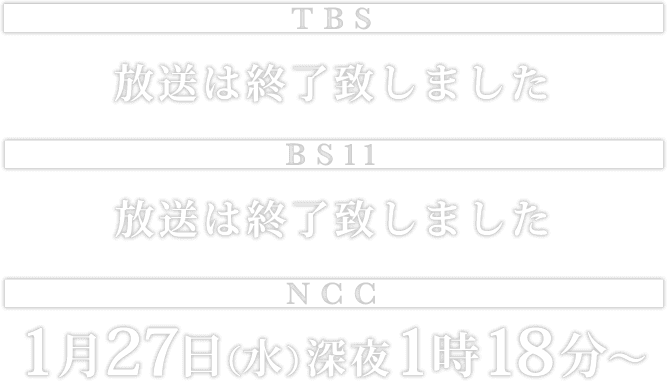
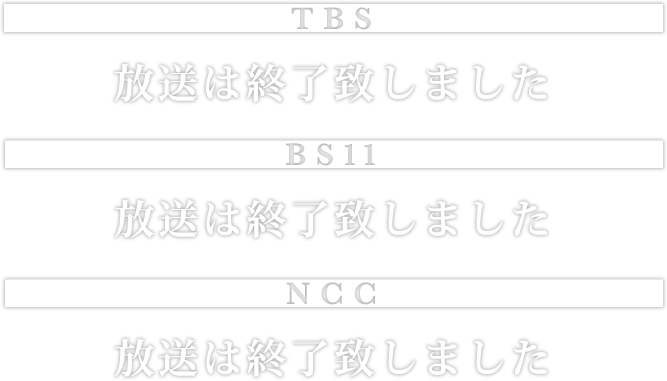
GitHub Actions at 2021-10-30 00:26:14

Changed region(s): [[0.03, 0.8373, 0.9895, 1.0], [0.4198, 0.7795, 0.5697, 0.8084], [0.03, 0.8661, 0.06, 0.895]]

diff --git a/index.html b/index.html
@@ -113,7 +113,7 @@
 		
 		<!-- #section-sidebar-top -->
 		<section id="sidebar-top">
-			<h2 class="top-onair-pc"><img src="img/top_onair_pc_2.png" srcset="img/top_onair_pc_2@2x.png" alt="放送情報"></h2>
+			<h2 class="top-onair-pc"><img src="img/top_onair_pc_3.png" srcset="img/top_onair_pc_3@2x.png" alt="放送情報"></h2>
 			<div class="top-pvbanner-pc link"><a data-type="md-youtube" href="http://www.youtube.com/watch?v=BjMQxHYfxC8" data-bg="#b486db"><img src="img/pv_banner.png" srcset="img/pv_banner@2x.png" alt="PV"></a></div>
 			<ul class="top-navigation-pc">
 				<li class="pc-nav-01 link alttext"><a href="news/index.html">NEWS</a></li>
@@ -161,7 +161,9 @@
 				<div id="top-img"><img class="lazyload" src="img/load.png" data-src="img/top_img_lazy_2.png" alt="安達としまむら"></div>
 				<div id="top-img-sp"><img class="lazyload" src="img/load.png" data-src="img/top_img_lazy_sp_2.png" alt="安達としまむら"></div>
 				<h1 class="top-logo"><img src="img/logo_too_pc.png" srcset="img/logo_too_pc@2x.png" alt="安達としまむら"></h1>
+				<!--
 				<div class="top-banner-event link"><a href="news/news20201009_01.html"><img src="img/banner_event.png" srcset="img/banner_event@2x.png" alt="ポスタープレゼントバナー"></a></div>
+				-->
 				<!--
 				<div class="top-banner-event link"><a href="news/news20210210_01.html"><img src="img/banner_event_02.png" alt="イベント情報"></a></div>
 				-->
@@ -192,23 +194,18 @@
 					<h2 class="h2-top-update"><img src="img/h2_top_update.png" alt="UPDATE"></h2>
 					<div class="update-block shadow">
 						<dl class="update-box clearfix">
-							<dt class="update-date">2021.03.12</dt>
-							<dt class="update-new">NEW</dt>
-                            <dd class="update-text"><a href="special/special07.html">イベントレポート更新！</a></dd>
-						</dl>
-                        <dl class="update-box clearfix">
 							<dt class="update-date">2021.02.16</dt>
-							<dt class="update-new">NEW</dt>
-                            <dd class="update-text"><a href="news/news20210216_01.html">『「安達としまむら」SPECIAL EVENT　〜私に相応しいチョコを決めてください！』グッズ再販売実施決定！</a></dd>
+							<!--<dt class="update-new">NEW</dt>-->
+                            <dd class="update-text"><a href="news/news20210216_01.html">『「安達としまむら」SPECIAL EVENT　～私に相応しいチョコを決めてください！』グッズ再販売実施決定！
 						</dl>
 						<dl class="update-box clearfix">
 							<dt class="update-date">2021.02.10</dt>
-                            <dd class="update-text"><a href="news/news20210210_02.html">【重要】『「安達としまむら」SPECIAL EVENT　〜私に相応しいチョコを決めてください！inさくらホール〜』中止のお知らせ 及び 有料配信イベント開催のお知らせ</a></dd>
-							<dd class="update-text"><a href="news/news20210210_01.html">2月21日（日）『「安達としまむら」SPECIAL ONLINE EVENT　〜私に相応しいチョコを決めてください！〜』開催決定！</a></dd>
+                            <dd class="update-text"><a href="news/news20210210_02.html">【重要】『「安達としまむら」SPECIAL EVENT　～私に相応しいチョコを決めてください！inさくらホール～』中止のお知らせ 及び 有料配信イベント開催のお知らせ</a></dd>
+							<dd class="update-text"><a href="news/news20210210_01.html">2月21日（日）『「安達としまむら」SPECIAL ONLINE EVENT　～私に相応しいチョコを決めてください！～』開催決定！</a></dd>
 						</dl>
 						<dl class="update-box clearfix">
 							<dt class="update-date">2021.01.29</dt>
-                            <dd class="update-text"><a href="news/news20210129_01.html">『「安達としまむら」SPECIAL EVENT　〜私に相応しいチョコを決めてください！inさくらホール〜』グッズ通販決定！</a></dd>
+                            <dd class="update-text"><a href="news/news20210129_01.html">『「安達としまむら」SPECIAL EVENT　～私に相応しいチョコを決めてください！inさくらホール～』グッズ通販決定！</a></dd>
 						</dl>
 						<dl class="update-box clearfix">
 							<dt class="update-date">2021.01.28</dt>
@@ -327,33 +324,28 @@
 		
 		<!-- #top-content-sp -->
 		<section id="top-content-sp">
-			<h2 class="top-onair-sp"><img src="img/top_onair_sp_2.png" srcset="img/top_onair_sp_2@2x.png" alt="10月放送開始"></h2>
+			<h2 class="top-onair-sp"><img src="img/top_onair_sp_3.png" srcset="img/top_onair_sp_3@2x.png" alt="BD&"></h2>
 			<div class="top-banner-sp shadow"><a data-type="md-youtube" href="http://www.youtube.com/watch?v=BjMQxHYfxC8" data-bg="#b486db"><img src="img/pv_banner_sp.png" srcset="img/pv_banner_sp@2x.png" alt="PV再生"></a></div>
-			<div class="top-banner-event-sp"><a href="news/news20201009_01.html"><img src="img/banner_event_sp.png" srcset="img/banner_event_sp@2x.png" alt="ポスタープレゼントバナー"></a></div>
 			<!--
+			<div class="top-banner-event-sp"><a href="news/news20201009_01.html"><img src="img/banner_event_sp.png" srcset="img/banner_event_sp@2x.png" alt="ポスタープレゼントバナー"></a></div>
 			<div class="top-banner-event-sp"><a href="news/news20210210_01.html"><img src="img/banner_event_sp_02.png" alt="イベント情報"></a></div>
 			-->
 			<div class="top-update-area">
 				<h2 class="h2-top-update-sp"><img src="img/h2_top_update_sp.png" srcset="img/h2_top_update_sp@2x.png" alt="UPDATE"></h2>
 				<div class="update-block shadow">
 					<dl class="update-box clearfix">
-							<dt class="update-date">2021.03.12</dt>
-							<dt class="update-new">NEW</dt>
-                            <dd class="update-text"><a href="special/special07.html">イベントレポート更新！</a></dd>
-						</dl>
-                        <dl class="update-box clearfix">
 							<dt class="update-date">2021.02.16</dt>
-							<dt class="update-new">NEW</dt>
-                            <dd class="update-text"><a href="news/news20210216_01.html">『「安達としまむら」SPECIAL EVENT　〜私に相応しいチョコを決めてください！』グッズ再販売実施決定！</a></dd>
+							<!--<dt class="update-new">NEW</dt>-->
+                            <dd class="update-text"><a href="news/news20210216_01.html">『「安達としまむら」SPECIAL EVENT　～私に相応しいチョコを決めてください！』グッズ再販売実施決定！
 						</dl>
 						<dl class="update-box clearfix">
 							<dt class="update-date">2021.02.10</dt>
-                            <dd class="update-text"><a href="news/news20210210_02.html">【重要】『「安達としまむら」SPECIAL EVENT　〜私に相応しいチョコを決めてください！inさくらホール〜』中止のお知らせ 及び 有料配信イベント開催のお知らせ</a></dd>
-							<dd class="update-text"><a href="news/news20210210_01.html">2月21日（日）『「安達としまむら」SPECIAL ONLINE EVENT　〜私に相応しいチョコを決めてください！〜』開催決定！</a></dd>
+                            <dd class="update-text"><a href="news/news20210210_02.html">【重要】『「安達としまむら」SPECIAL EVENT　～私に相応しいチョコを決めてください！inさくらホール～』中止のお知らせ 及び 有料配信イベント開催のお知らせ</a></dd>
+							<dd class="update-text"><a href="news/news20210210_01.html">2月21日（日）『「安達としまむら」SPECIAL ONLINE EVENT　～私に相応しいチョコを決めてください！～』開催決定！</a></dd>
 						</dl>
 						<dl class="update-box clearfix">
 							<dt class="update-date">2021.01.29</dt>
-                            <dd class="update-text"><a href="news/news20210129_01.html">『「安達としまむら」SPECIAL EVENT　〜私に相応しいチョコを決めてください！inさくらホール〜』グッズ通販決定！</a></dd>
+                            <dd class="update-text"><a href="news/news20210129_01.html">『「安達としまむら」SPECIAL EVENT　～私に相応しいチョコを決めてください！inさくらホール～』グッズ通販決定！</a></dd>
 						</dl>
 						<dl class="update-box clearfix">
 							<dt class="update-date">2021.01.28</dt>
